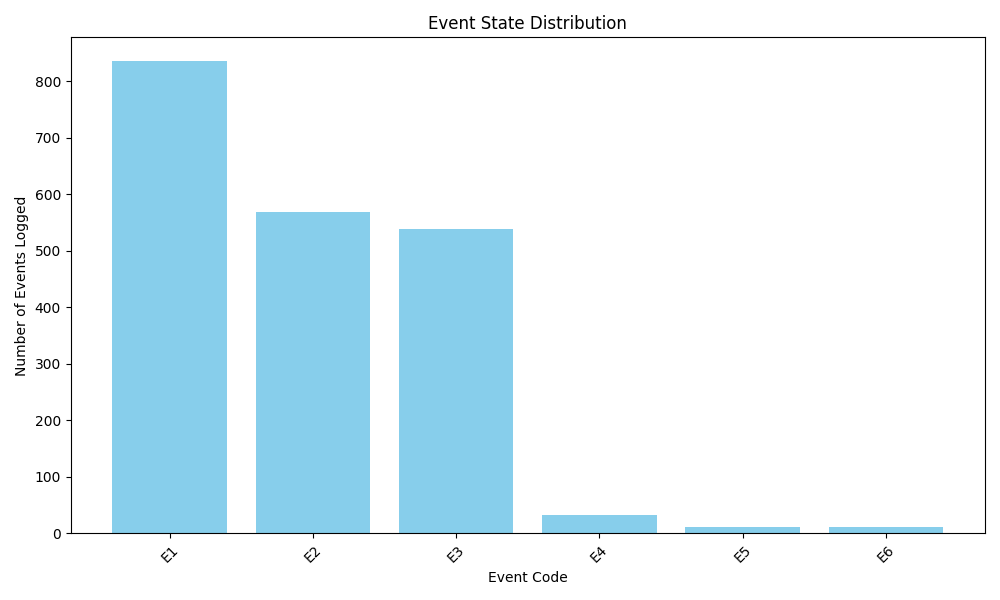
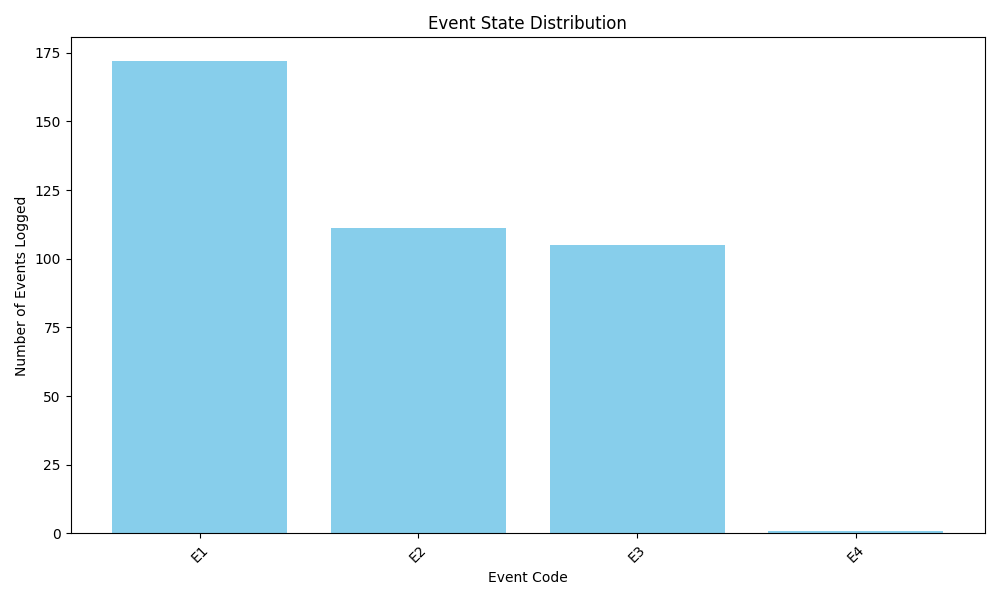
Changed the filtering to bash

diff --git a/app.py b/app.py
@@ -47,12 +47,11 @@ def graphs():
     if request.method == "GET":
         return render_template('graphs.html', file_uploaded=True)
     elif request.method == "POST":
-        start_datetime = f"{request.form['start_date']}T{request.form['start_time']}"
-        end_datetime = f"{request.form['end_date']}T{request.form['end_time']}"
-        tokenized_lines = np.loadtxt('temp/processedUpload.log', delimiter=',', skiprows=1, dtype=object)
-        mask = [True if (end_datetime >= datetime_converter(datetime) >= start_datetime) else False for datetime in tokenized_lines.T[1]]
-        tokenized_lines = tokenized_lines[mask]
-        np.savetxt('temp/filtered.log', tokenized_lines, delimiter = ',', header='LineId,Time,Level,Content,EventId,EventTemplate', comments="", fmt='%s')
+        start_time = request.form['start_time'] if request.form['start_time'] != '' else '00:00:00'
+        end_time = request.form['end_time'] if request.form['end_time'] != '' else '00:00:00'
+        start_datetime = f"{request.form['start_date']}T{start_time}+05:30"
+        end_datetime = f"{request.form['end_date']}T{end_time}+05:30"
+        subprocess.run([f"bash ./scripts/filter.sh ./temp/processedUpload.log {start_datetime} {end_datetime} ./temp/filtered.log"],shell=True)
         subprocess.run(["python3 ./scripts/plotter.py ./temp/filtered.log ./temp/output_plots/"], shell=True)
         return render_template('graphs.html', file_uploaded=True)
 
@@ -60,25 +59,6 @@ def graphs():
 def temp(filename: str):
     return send_from_directory('temp', filename)
 
-#Parsing Sun Dec 04 04:44:54 2005 to 2005-12-04T04:44:54
-def datetime_converter(og_date : str):
-    _, month, date, _time, year = og_date.split(" ")
-    month_dict = {
-    "Jan": "01",
-    "Feb": "02",
-    "Mar": "03",
-    "Apr": "04",
-    "May": "05",
-    "Jun": "06",
-    "Jul": "07",
-    "Aug": "08",
-    "Sep": "09",
-    "Oct": "10",
-    "Nov": "11",
-    "Dec": "12"
-    }
-    output = f"{year}-{month_dict[month]}-{date}T{_time}"
-    return output
 
 @app.route('/table', methods=['GET', 'POST'])
 def table():
@@ -89,11 +69,10 @@ def table():
     if request.method == 'POST':
         start_time = request.form['start_time'] if request.form['start_time'] != '' else '00:00:00'
         end_time = request.form['end_time'] if request.form['end_time'] != '' else '00:00:00'
-        tokenized_lines = np.loadtxt('temp/processedUpload.log', delimiter=',', skiprows=1, dtype=object)
-        start_datetime = f"{request.form['start_date']}T{start_time}"
-        end_datetime = f"{request.form['end_date']}T{end_time}"
-        mask = [True if (end_datetime >= datetime_converter(datetime) >= start_datetime) else False for datetime in tokenized_lines.T[1]]
-        tokenized_lines = tokenized_lines[mask]
+        start_datetime = f"{request.form['start_date']}T{start_time}+05:30"
+        end_datetime = f"{request.form['end_date']}T{end_time}+05:30"
+        subprocess.run([f"bash ./scripts/filter.sh ./temp/processedUpload.log {start_datetime} {end_datetime} ./temp/filtered.log"],shell=True)
+        tokenized_lines = np.loadtxt('temp/filtered.log', delimiter=',', dtype=object)
         return render_template('table.html', tokens = tokenized_lines, file_uploaded=True)
 
 if __name__ == '__main__':
